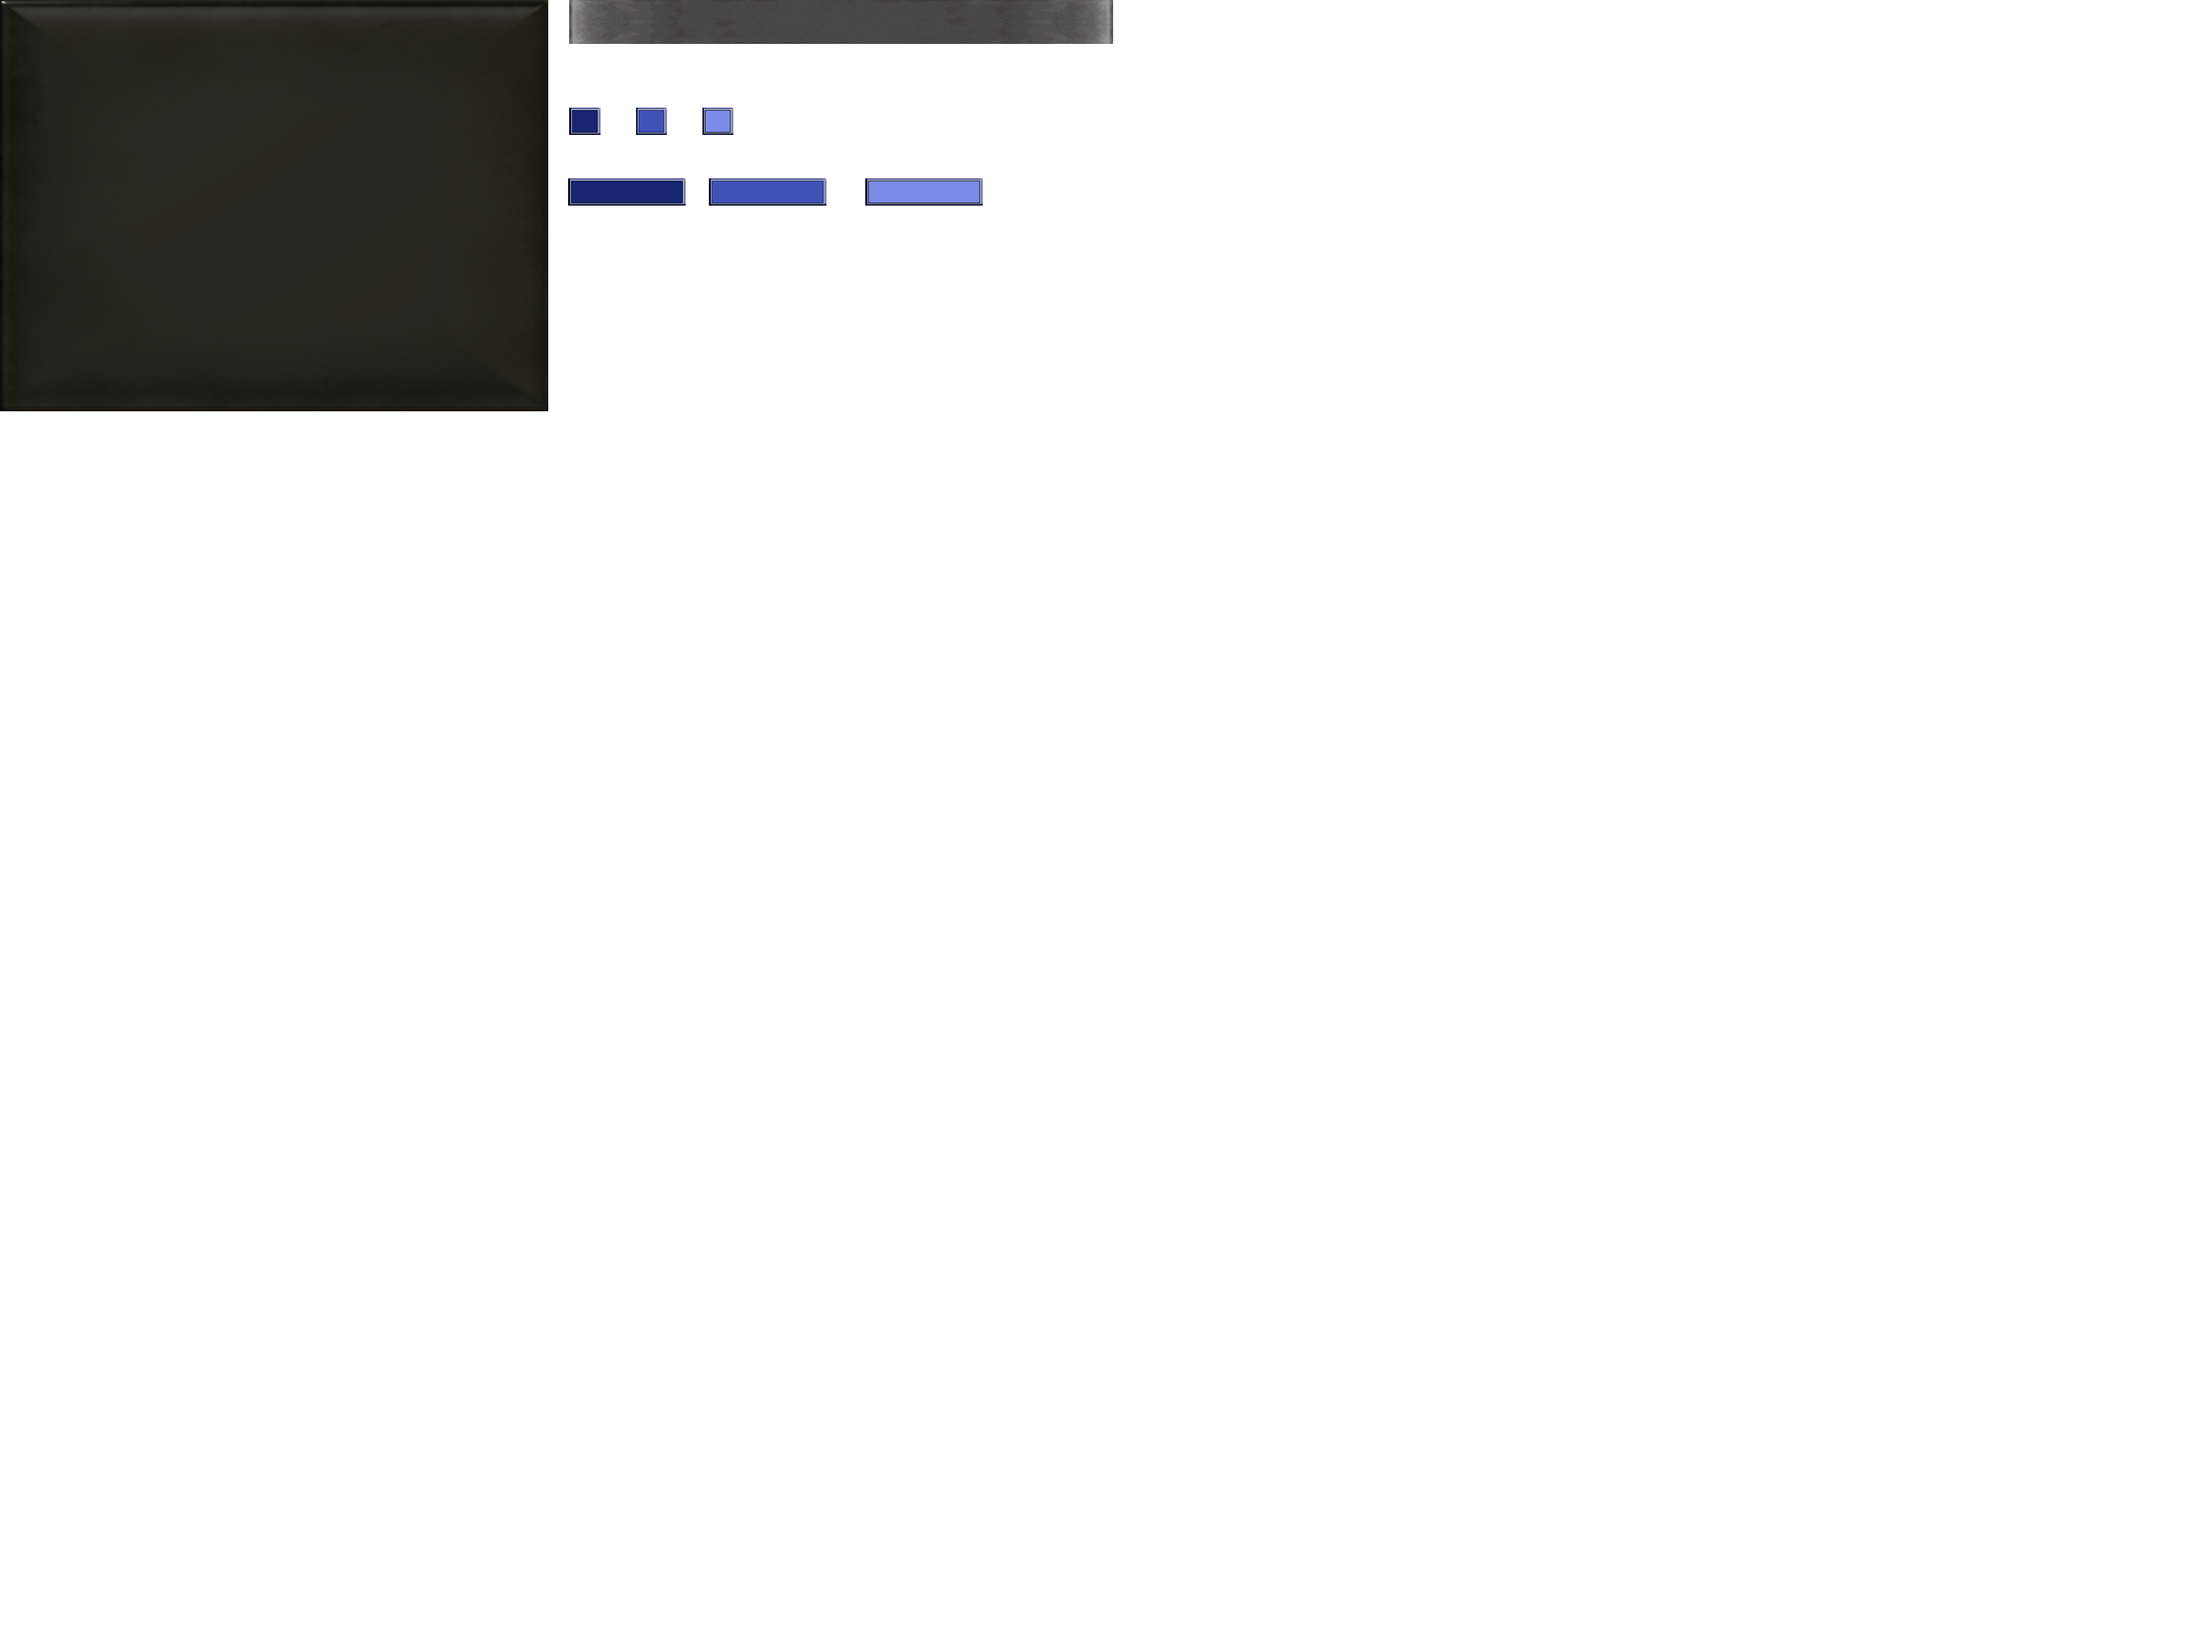
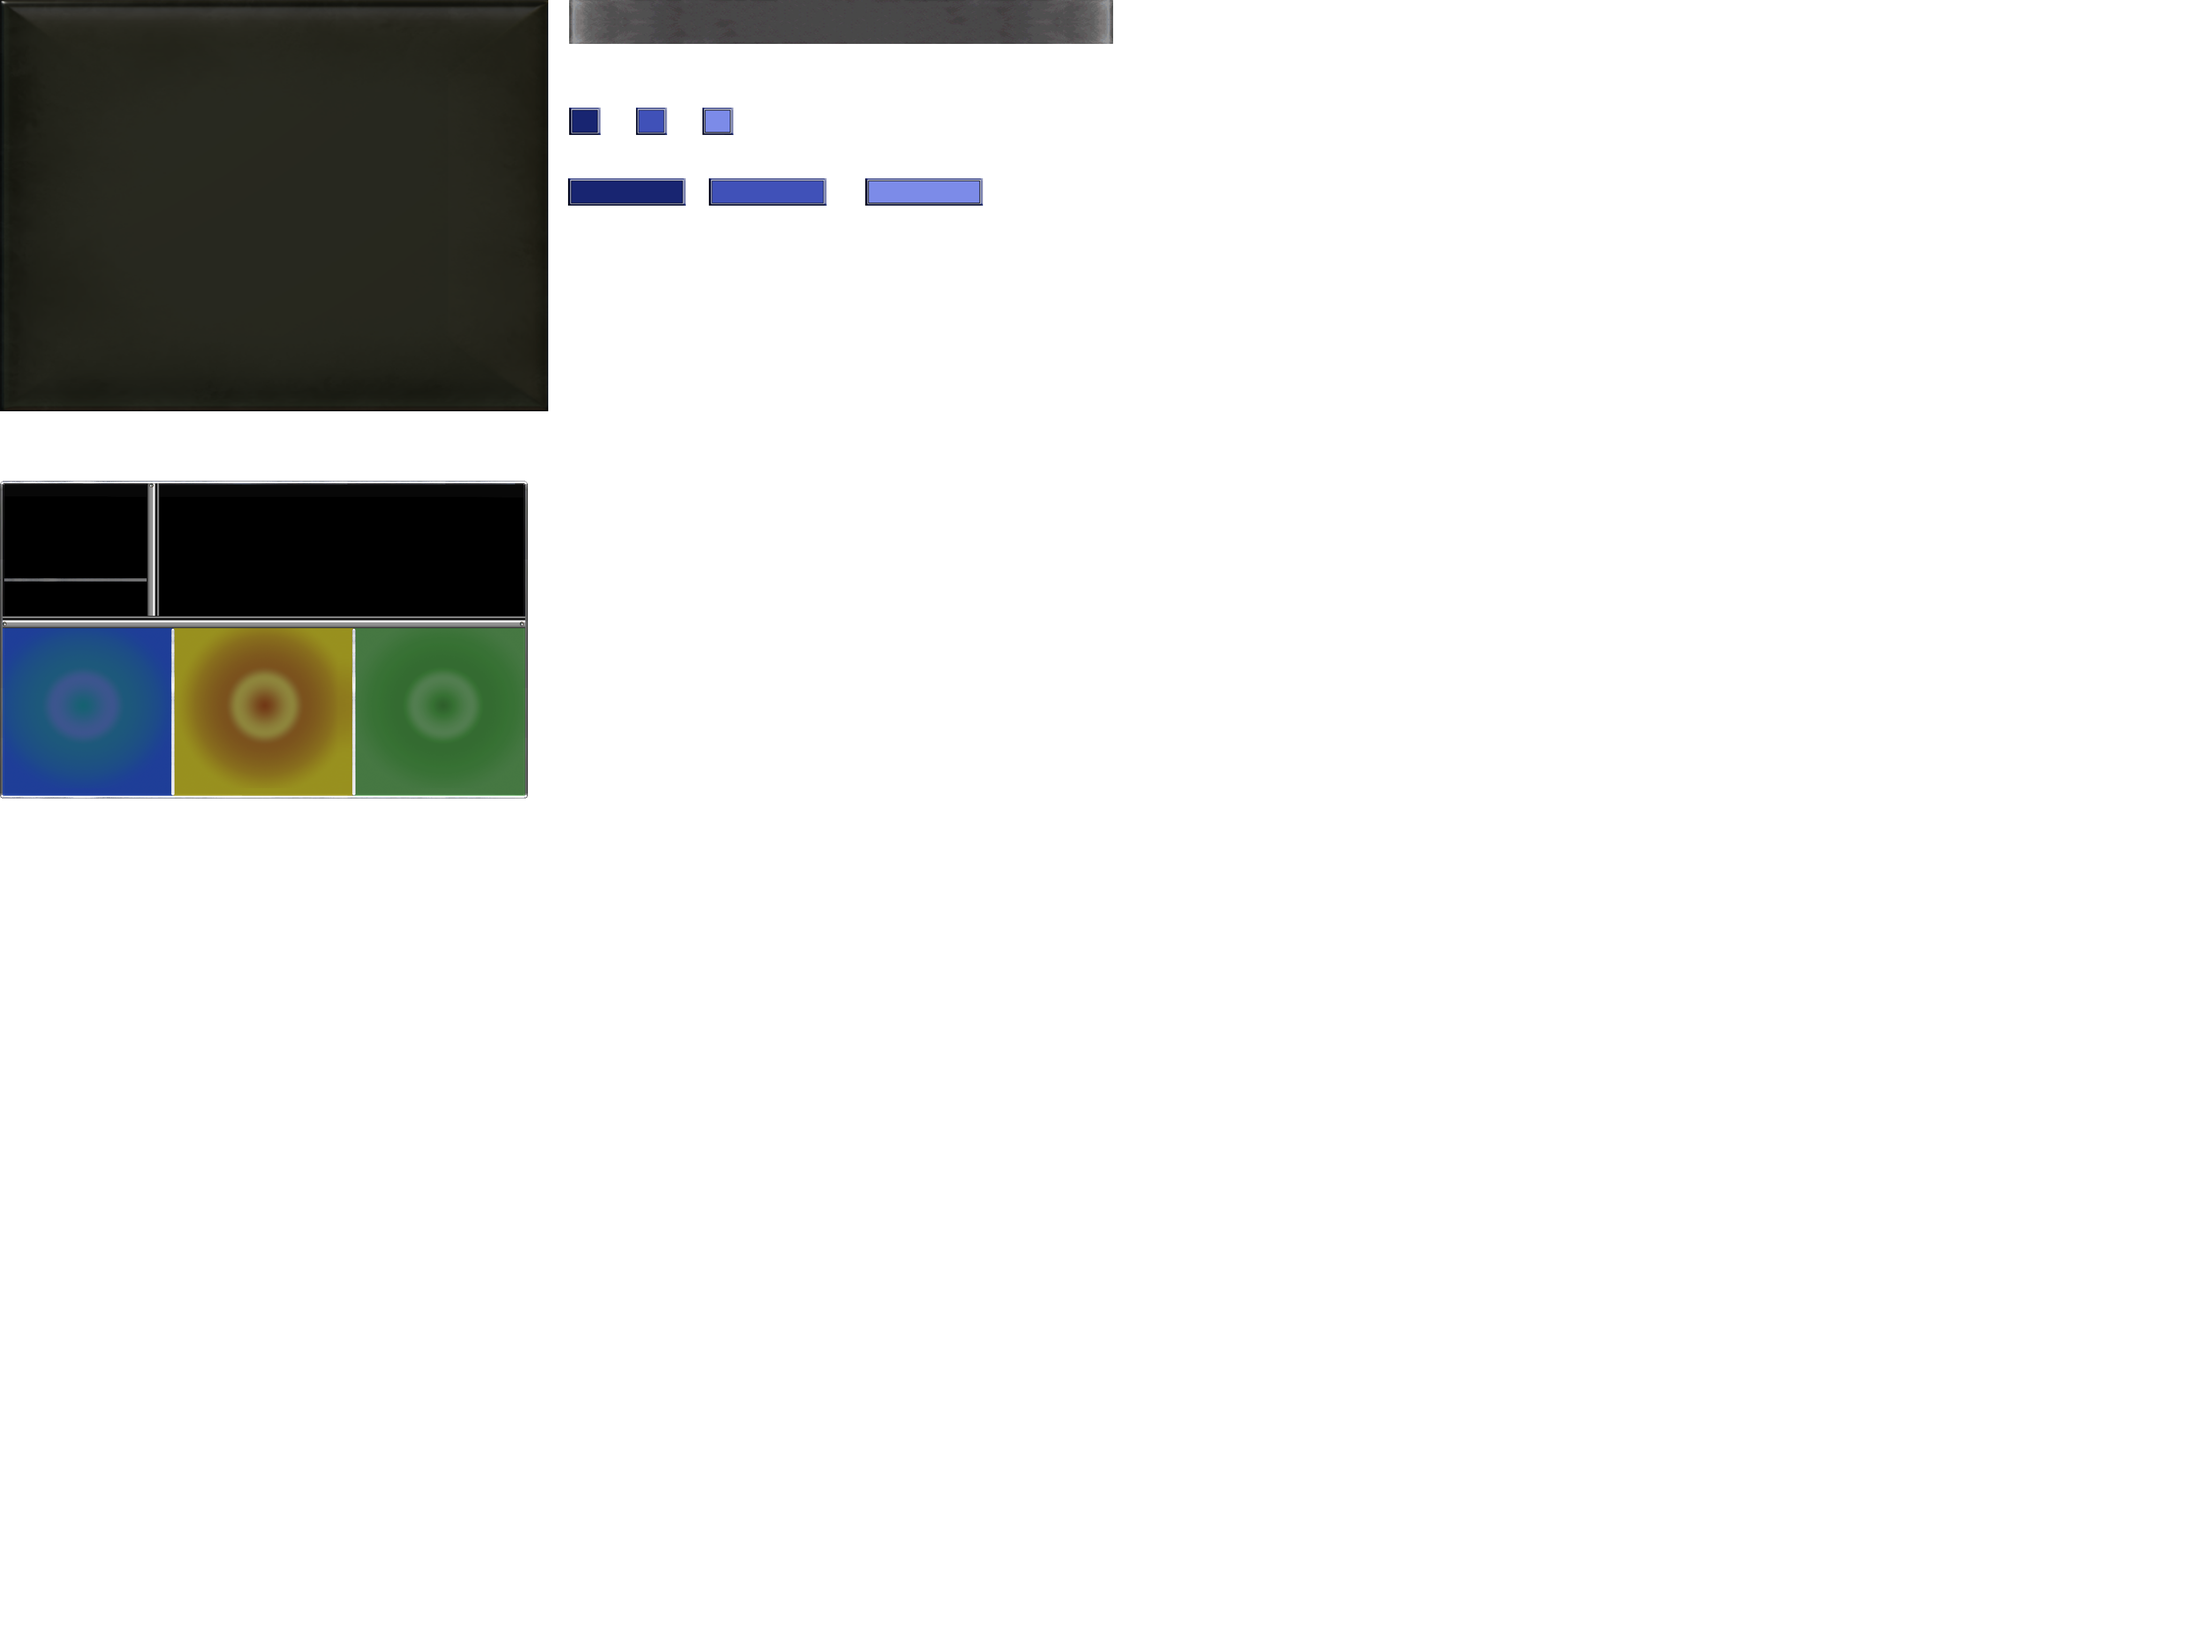
troops menu started

Changed region(s): [[0.0, 0.2812, 0.25, 0.5]]

diff --git a/Motor2D/MapMenuScene.cpp b/Motor2D/MapMenuScene.cpp
@@ -81,15 +81,38 @@ bool MapMenuScene::CleanUp()
 
 bool MapMenuScene::GUIEvent(UIElement * element, GUI_Event gui_event)
 {
+	SDL_Rect settings_rect[3];
+	settings_rect[0] = { 1063,201,59,51 };
+	settings_rect[1] = { 1188,201,58,51 };
+	settings_rect[2] = { 1312,201,58,51 };
+
+	SDL_Rect menu_rect[3];
+	menu_rect[0] = { 1061,333,220,51 };
+	menu_rect[1] = { 1324,333,220,51 };
+	menu_rect[2] = { 1616,333,220,51 };
+
 	if (gui_event == GUI_Event::LEFT_CLICK_DOWN) {
 		if (element == settings_button) {
 			//(options = App->gui->CreateImage();
 		}
-		/*else if (element == menu_button) {
-			options = App->gui->CreateImage({ 450,300 }, {}, NULL);
+		else if (element == menu_button) {
+			t_b_bg = App->gui->CreateImage({ 20,95 }, {0,898,986,588}, NULL);
+			backbutton_t_b_bg = App->gui->CreateButton({ 945,60 }, settings_rect, NULL);
+			troops_button = App->gui->CreateButton({ 200,60 }, menu_rect, NULL);
+			buildings_button = App->gui->CreateButton({ 945,60 }, menu_rect, NULL);
+			App->gui->DisableElement(menu_button);
+			App->gui->DisableElement(settings_button);
+			
+			
 
-		}*/
-		
+		}
+		else if (element = backbutton_t_b_bg) {
+			App->gui->DeleteElement(t_b_bg);
+			App->gui->DeleteElement(backbutton_t_b_bg);
+			App->gui->EnableElement(menu_button);
+			App->gui->EnableElement(settings_button);
+
+		}
 	}
 	return false;
 }

diff --git a/Motor2D/MapMenuScene.h b/Motor2D/MapMenuScene.h
@@ -44,12 +44,16 @@ private:
 
 	UIImage* banner;
 	UIImage* options;
+	UIImage* t_b_bg;
 	UILabel* health;
 	UILabel* gold;
 	UILabel* energy;
 	UILabel* text_menu;
 	UIButton* settings_button;
 	UIButton* menu_button;
+	UIButton* backbutton_t_b_bg;
+	UIButton* troops_button;
+	UIButton* buildings_button;
 
 };
 
